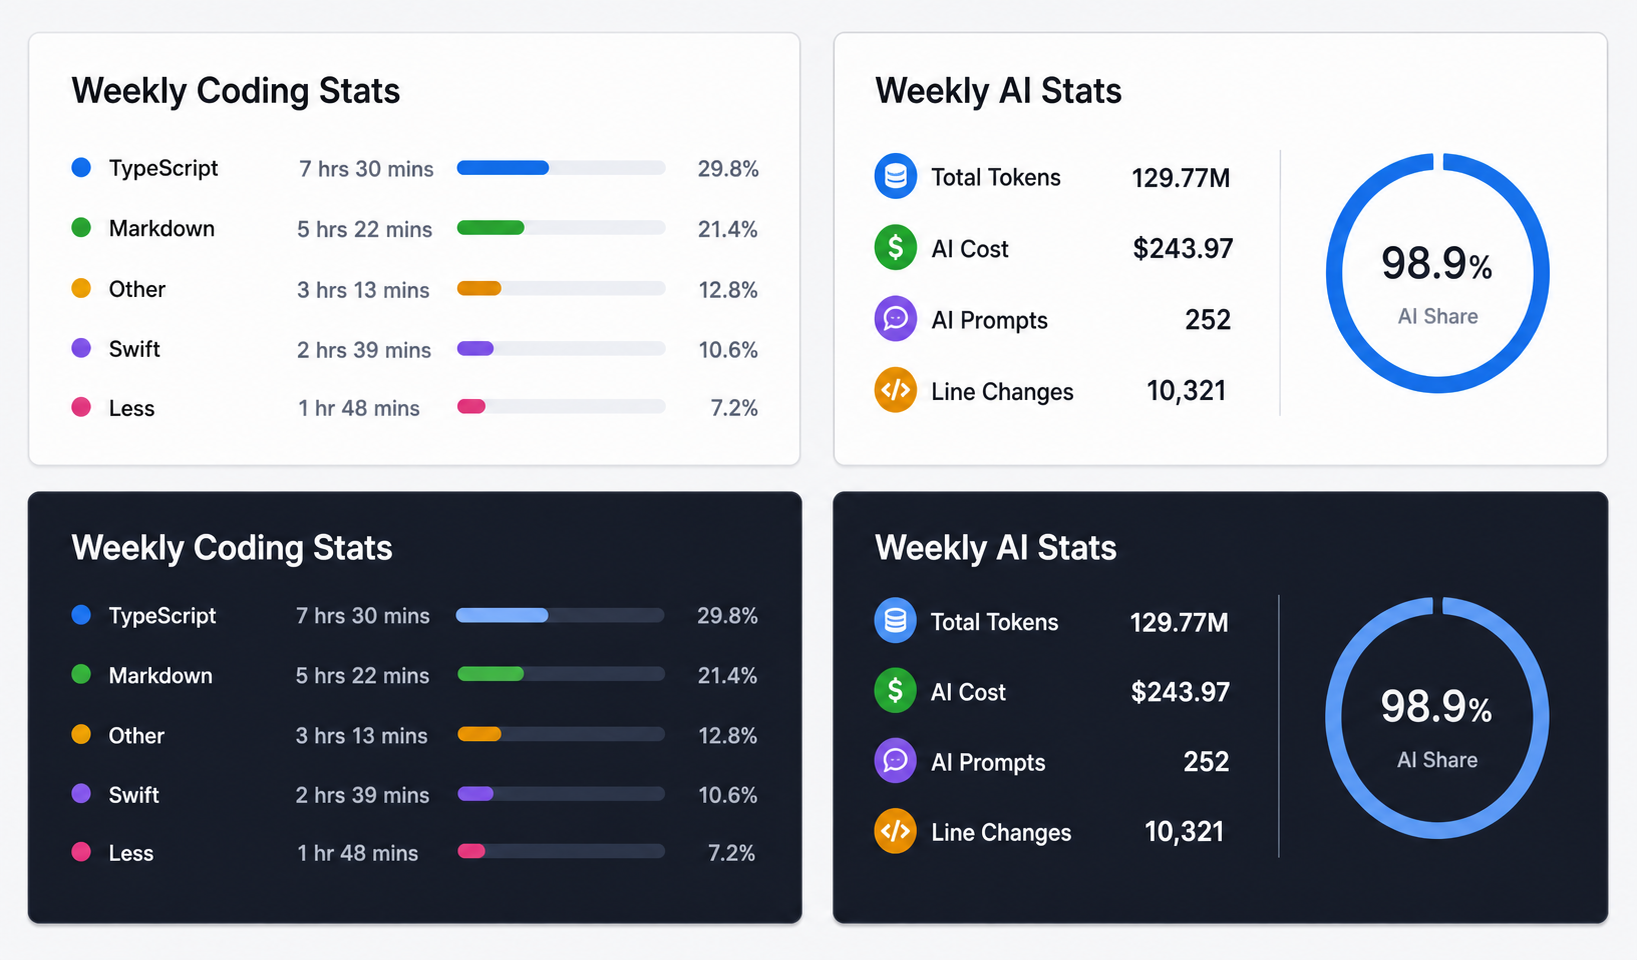
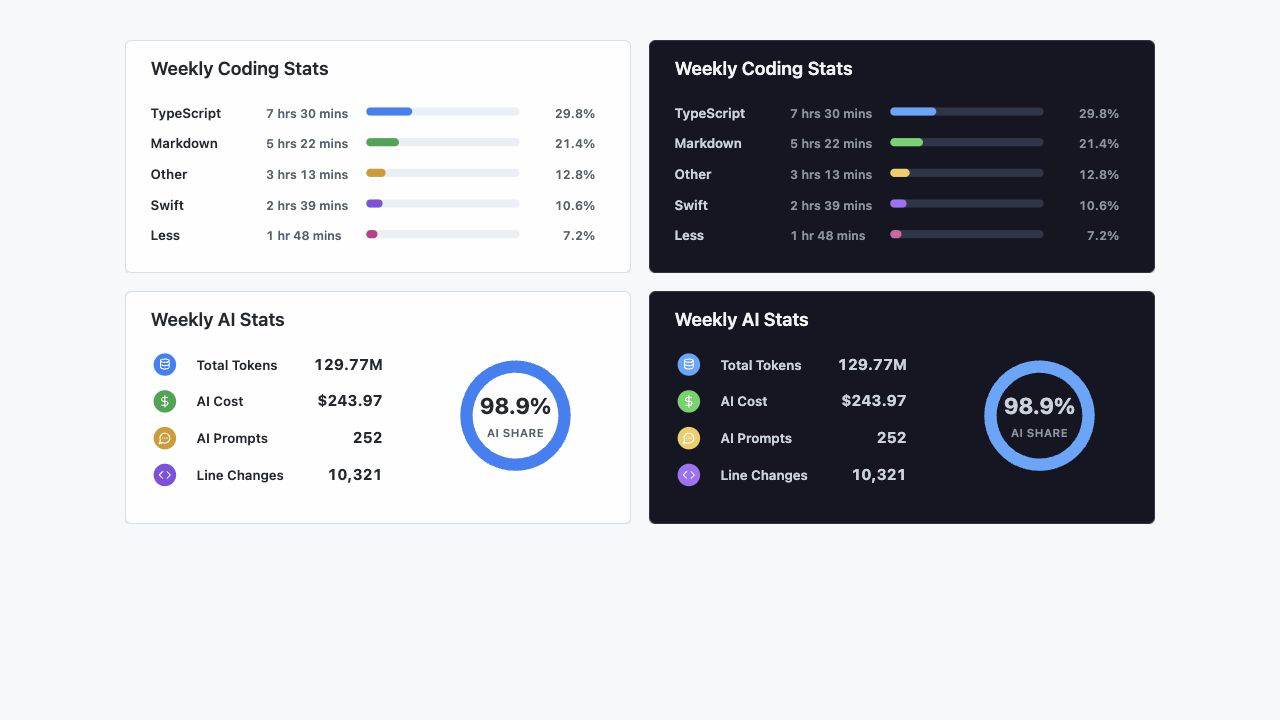
📝 docs: clean up AGENTS.md structure and update reference image
Move project positioning above basic requirements.
Remove redundant rules already covered by global CLAUDE.md.
Compress dev-stats-card-reference.png (1.1MB → 236KB).

diff --git a/AGENTS.md b/AGENTS.md
@@ -1,18 +1,16 @@
 # AGENTS.md
 
-## 基本要求
-
-- 使用中文和用户交流。
-- 终端命令默认使用 `rtk` 前缀；细节见 `/Users/sunss/.codex/RTK.md`。
-- 不要泄露、打印、提交或写入公开产物中的 `WAKATIME_API_KEY`。
-- 遇到账号、权限、密钥、远程发布或不可逆操作问题，先停下来问用户。
-- 只做当前任务需要的改动，不顺手重构无关代码。
-
 ## 项目定位
 
 这是一个面向个人仓库的 WakaTime 周数据归档与 GitHub README SVG 卡片生成工具。当前版本通过 WakaTime API 拉取周数据，归一化后写入仓库 JSON，并生成可直接嵌入 README 的静态 SVG。
 
 当前不是公开多用户服务，不做 OAuth，不接数据库，不默认使用 Gist 或 GitHub Issues 归档。
+
+## 基本要求
+
+- 不要泄露、打印、提交或写入公开产物中的 `WAKATIME_API_KEY`。
+- 遇到账号、权限、密钥、远程发布或不可逆操作问题，先停下来问用户。
+- 只做当前任务需要的改动，不顺手重构无关代码。
 
 ## 上下文读取顺序
 
